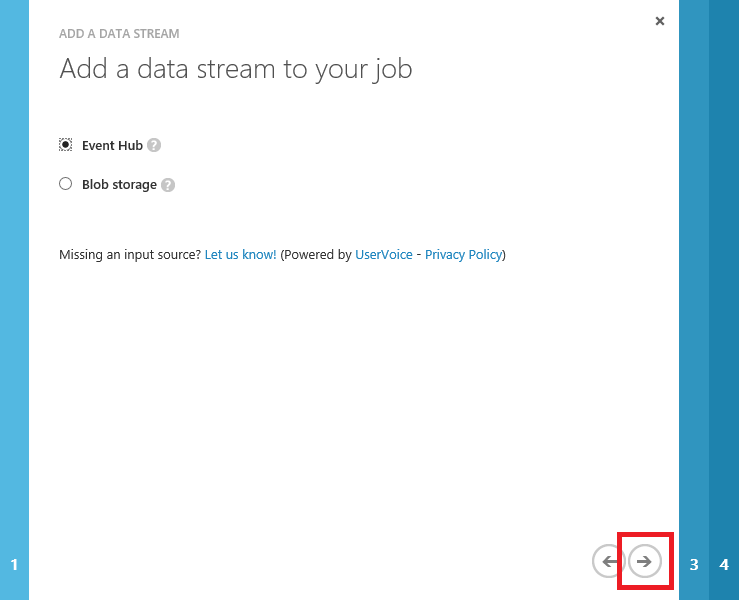
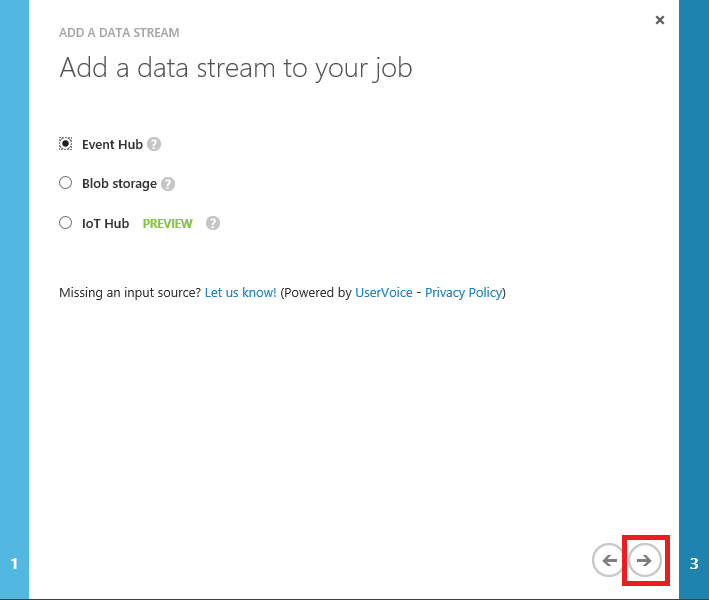
November revisions to Stream Analytics lab

diff --git a/Content/Stream Analytics/StreamAnalyticsHOL.md b/Content/Stream Analytics/StreamAnalyticsHOL.md
@@ -217,8 +217,6 @@ If you'd rather not wait for the events to appear in the dashboard, feel free to
 
 You now have software that sends events to an Azure event hub, and an event hub that ingests the data. In this exercise, you'll use the Microsoft Azure [Classic Portal](https://manage.windowsazure.com) to create a Stream Analytics job and connect it to the event hub. You'll also capture the raw data being presented to Stream Analytics by the event hub and examine its structure.
 
-> Just as the Azure Preview Portal currently has no support for event hubs, it also lacks support for Stream Analytics. This will change in the future, but for now, you'll use the Classic Portal to explore Azure Stream Analytics.
-
 1. Open the [Classic Portal](https://manage.windowsazure.com) in your browser if it isn't already open. Click **STREAM ANALYTICS** in the ribbon on the left, and then click **CREATE A NEW STREAM ANALYTICS JOB**.
 
     ![Azure Stream Analytics](images/stream-analytics-screen.png)
@@ -260,6 +258,8 @@ You now have software that sends events to an Azure event hub, and an event hub 
     ![Specifying a data-stream type](images/add-input-dialog-2.png)
 
     _Specifying a data-stream type_
+
+	> IoT hubs are a relatively recent addition to Azure; their primary purpose is to enable two-way communications between IoT devices. You chose **Event Hub** because you're connecting simulated IoT devices to a Stream Analytics job, not to other devices. 
 
 1. Enter "Withdrawals" as a friendly alias for the input in the **INPUT ALIAS** box. In the **CHOOSE A NAMESPACE** and **CHOOSE AN EVENTHUB** boxes, select the namespace and event hub that you created in [Exercise 1](#Exercise1). Leave **EVENT HUB POLICY NAME** set to **RootManageSharedAccessKey** (that's a default policy that's created automatically when you create an event hub; it grants permission to manage the event hub, send events, and receive events) and **CHOOSE A CONSUMER GROUP** set to **$Default**. Then click the right-arrow in the lower-right corner.
 
@@ -394,7 +394,7 @@ To flag potentially fraudulent withdrawals from ATMs, you will query for transac
 
     _Potentially fraudulent transactions_
 
-1. Click the **SAVE** button at the bottom of the page to save the query.
+1. Click the **SAVE** button at the bottom of the page to save the query. Then click **YES** when asked to confirm.
 
     ![Saving the query](images/query-save.png)
 

diff --git a/Content/Storage/StorageHOL.md b/Content/Storage/StorageHOL.md
@@ -493,7 +493,7 @@ In this exercise, you'll use the Azure Portal to delete the storage account you 
     _Deleting a resource group_
 
 1. Because deleting a resource group is a permanent action that can't be undone, you must confirm that you want to delete it. Do so by typing the name of the resource group into the box labeled 
-"TYPE THE RESOURCE GROUP NAME." Then click **Delete** to delete the resource group and everything inside it.
+**TYPE THE RESOURCE GROUP NAME**. Then click **Delete** to delete the resource group and everything inside it.
 
     ![Confirming resource-group deletion](images/confirm-delete-resource-group.png)
 
